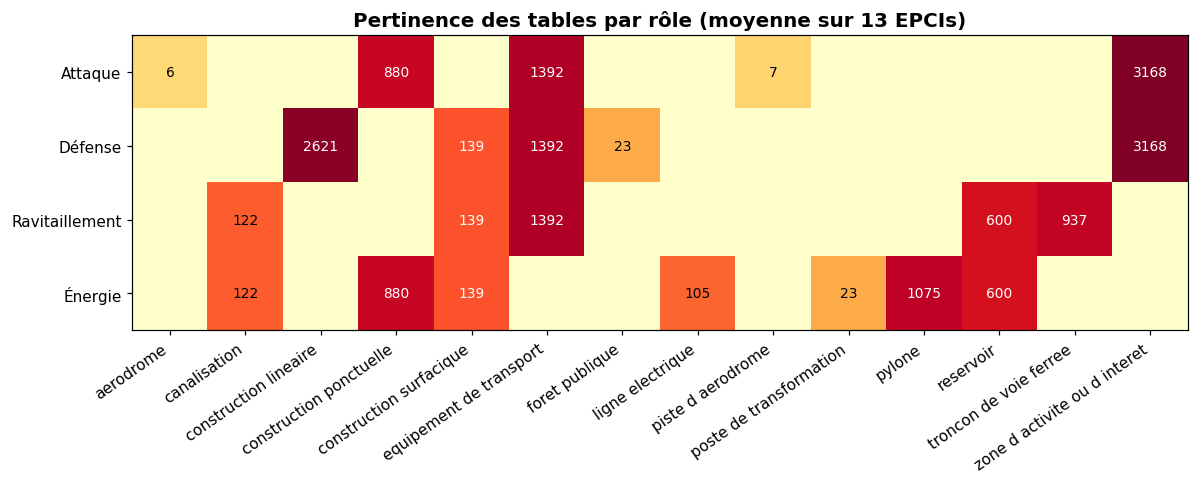
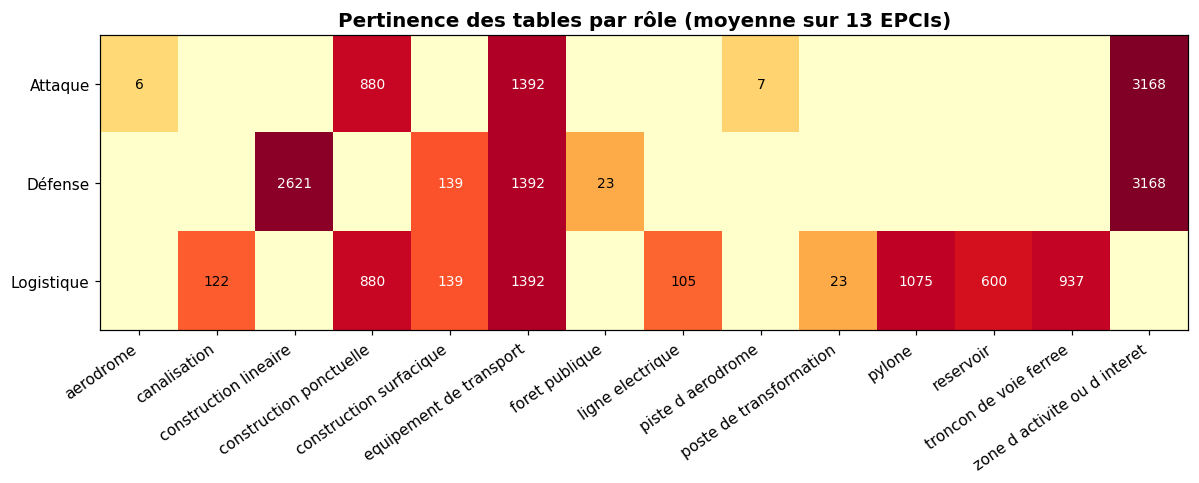
update graphs

diff --git a/pages/slides/_mermaid-card.html b/pages/slides/_mermaid-card.html
@@ -1,0 +1,10 @@
+<style>
+  .reveal .cell-output-display svg[id^="mermaid-"],
+  .reveal pre.mermaid svg,
+  .reveal .mermaid svg {
+    background: #ffffff;
+    padding: 14px;
+    border-radius: 10px;
+    max-height: 70vh;
+  }
+</style>

diff --git a/scripts/generate_theory_stats.py b/scripts/generate_theory_stats.py
@@ -16,7 +16,9 @@ matplotlib.use("Agg")
 import matplotlib.pyplot as plt
 
 DATA_DIR = Path("data/epci_extracts")
-OUT_DIR = Path("site/assets/img/theory")
+OUT_DIR = Path("pages/assets/img/theory")
+ONTO_DIR = Path("data/ontologie")
+GOLD_DIR = Path("data/gold_dumps")
 
 EPCIS = {
     "242900314": "Brest",       "200084952": "Le Havre",
@@ -224,6 +226,250 @@ def chart_data_inventory():
     plt.close(fig)
 
 
+def chart_road_density():
+    """A — Densité routière (tronçons / km²) par EPCI."""
+    import geopandas as gpd
+    epci = gpd.read_parquet("data/epci.parquet")
+    # canonical key = code_siren (string)
+    key_col = "code_siren" if "code_siren" in epci.columns else "siren"
+    epci = epci.set_index(epci[key_col].astype(str))
+    epci["area_km2"] = epci.geometry.to_crs(2154).area / 1e6
+
+    rows = []
+    for siren, name in EPCIS.items():
+        n_roads = count_rows(siren, "troncon_de_route")
+        area = float(epci.loc[siren, "area_km2"]) if siren in epci.index else np.nan
+        rows.append({"epci": name, "tronc_per_km2": n_roads / area if area else 0,
+                     "area_km2": area})
+    df = pd.DataFrame(rows).set_index("epci").sort_values("tronc_per_km2")
+
+    fig, ax = plt.subplots(figsize=(10, 6))
+    df["tronc_per_km2"].plot(kind="barh", ax=ax, color="#34495e", edgecolor="white")
+    ax.set_title("Densité du réseau routier — tronçons par km²",
+                 fontsize=13, weight="bold")
+    ax.set_xlabel("tronçons / km²")
+    ax.set_ylabel("")
+    for i, v in enumerate(df["tronc_per_km2"]):
+        ax.text(v, i, f"  {v:.0f}", va="center", fontsize=9)
+    ax.grid(axis="x", alpha=0.3)
+    fig.tight_layout()
+    fig.savefig(OUT_DIR / "chart_road_density.png", dpi=110, bbox_inches="tight")
+    plt.close(fig)
+
+
+def chart_choke_points():
+    """B — Choke-points candidats (ponts + tunnels + barrages) par EPCI."""
+    rows = []
+    for siren, name in EPCIS.items():
+        surf = read_col(siren, "construction_surfacique", "nature")
+        line = read_col(siren, "construction_lineaire", "nature")
+        ponts_s   = int((surf == "Pont").sum())
+        barrages  = int((surf == "Barrage").sum())
+        ecluses   = int((surf == "Écluse").sum())
+        tunnels   = int(line.isin(["Tunnel", "Tranchée couverte"]).sum())
+        ponts_l   = int((line == "Pont").sum())
+        rows.append({"epci": name, "Ponts (surf)": ponts_s, "Ponts (linéaires)": ponts_l,
+                     "Tunnels": tunnels, "Barrages": barrages, "Écluses": ecluses})
+    df = pd.DataFrame(rows).set_index("epci")
+    df = df.loc[df.sum(axis=1).sort_values().index]
+
+    fig, ax = plt.subplots(figsize=(10, 7))
+    df.plot(kind="barh", stacked=True, ax=ax,
+            color=["#2980b9", "#3498db", "#8e44ad", "#c0392b", "#16a085"],
+            edgecolor="white", linewidth=0.5)
+    ax.set_title("Points singuliers du réseau (candidats choke-points Phase 3)",
+                 fontsize=13, weight="bold")
+    ax.set_xlabel("Nombre d'ouvrages")
+    ax.set_ylabel("")
+    ax.legend(loc="lower right", fontsize=9)
+    ax.grid(axis="x", alpha=0.3)
+    fig.tight_layout()
+    fig.savefig(OUT_DIR / "chart_choke_points.png", dpi=110, bbox_inches="tight")
+    plt.close(fig)
+
+
+def chart_road_importance():
+    """C — Pyramide d'importance routière (% par EPCI)."""
+    buckets = [("1-2 (national)", {1, 2}), ("3", {3}), ("4", {4}), ("5-6 (local)", {5, 6})]
+    rows = []
+    for siren, name in EPCIS.items():
+        imp = read_col(siren, "troncon_de_route", "importance")
+        try:
+            imp_int = pd.to_numeric(imp.astype(str).str.replace("'", ""), errors="coerce")
+        except Exception:
+            imp_int = pd.Series(dtype=float)
+        total = imp_int.notna().sum() or 1
+        row = {"epci": name}
+        for label, vals in buckets:
+            row[label] = 100.0 * imp_int.isin(vals).sum() / total
+        rows.append(row)
+    df = pd.DataFrame(rows).set_index("epci")
+    df = df.loc[df["1-2 (national)"].sort_values(ascending=False).index]
+
+    fig, ax = plt.subplots(figsize=(10, 6))
+    df.plot(kind="barh", stacked=True, ax=ax,
+            color=["#c0392b", "#e67e22", "#f1c40f", "#bdc3c7"],
+            edgecolor="white", linewidth=0.5)
+    ax.set_title("Pyramide d'importance routière (% des tronçons)",
+                 fontsize=13, weight="bold")
+    ax.set_xlabel("% des tronçons")
+    ax.set_ylabel("")
+    ax.legend(title="Importance", bbox_to_anchor=(1.02, 1), loc="upper left", fontsize=9)
+    ax.grid(axis="x", alpha=0.3)
+    fig.tight_layout()
+    fig.savefig(OUT_DIR / "chart_road_importance.png", dpi=110, bbox_inches="tight")
+    plt.close(fig)
+
+
+def chart_electrical_resilience():
+    """D — Résilience électrique : pylônes, postes HT, lignes 400/225 kV."""
+    rows = []
+    for siren, name in EPCIS.items():
+        pyl   = count_rows(siren, "pylone")
+        ptr   = count_rows(siren, "poste_de_transformation")
+        volt  = read_col(siren, "ligne_electrique", "voltage")
+        thtxx = int(volt.isin(["400 kV", "225 kV"]).sum())
+        rows.append({"epci": name, "Pylônes": pyl, "Postes HT": ptr,
+                     "Lignes 225/400 kV": thtxx})
+    df = pd.DataFrame(rows).set_index("epci")
+    df_norm = df.div(df.max()).fillna(0)  # normalise pour comparabilité visuelle
+    df_norm = df_norm.loc[df["Pylônes"].sort_values().index]
+
+    fig, ax = plt.subplots(figsize=(10, 6))
+    df_norm.plot(kind="barh", ax=ax,
+                 color=["#16a085", "#2980b9", "#d35400"],
+                 edgecolor="white", width=0.8)
+    ax.set_title("Réseau électrique par EPCI (valeurs normalisées max=1)",
+                 fontsize=13, weight="bold")
+    ax.set_xlabel("Ratio (1 = max sur les 13 EPCIs)")
+    ax.set_ylabel("")
+    ax.legend(loc="lower right", fontsize=9)
+    ax.grid(axis="x", alpha=0.3)
+    # Annoter les valeurs brutes
+    for i, epci in enumerate(df_norm.index):
+        raw = df.loc[epci]
+        ax.annotate(f"  P:{raw['Pylônes']} | HT:{raw['Postes HT']} | THT:{raw['Lignes 225/400 kV']}",
+                    xy=(1.02, i), xycoords=("axes fraction", "data"),
+                    fontsize=7, color="#555", va="center")
+    fig.tight_layout()
+    fig.savefig(OUT_DIR / "chart_electrical_resilience.png", dpi=110, bbox_inches="tight")
+    plt.close(fig)
+
+
+def chart_ontology_treemap():
+    """E — Profondeur de l'ontologie BDTOPO (3 niveaux Database→Object→Detail)."""
+    try:
+        db   = pq.read_table(ONTO_DIR / "bdtopo_database.parquet").to_pandas()
+        obj  = pq.read_table(ONTO_DIR / "bdtopo_objects.parquet").to_pandas()
+        det  = pq.read_table(ONTO_DIR / "bdtopo_details.parquet").to_pandas()
+    except FileNotFoundError as e:
+        print(f"  [skip] ontology files missing: {e}")
+        return
+
+    # Details liés aux Objects via parent_obj_name ; Objects liés aux Database via parent_db_name
+    det_per_obj = det.groupby("parent_obj_name").size().rename("n_details")
+    obj_aug = obj.assign(n_details=obj["name"].map(det_per_obj).fillna(0))
+    agg = obj_aug.groupby("parent_db_name").agg(
+        n_objects=("name", "count"),
+        n_details=("n_details", "sum"),
+    ).sort_values("n_details", ascending=True)
+
+    fig, ax = plt.subplots(figsize=(11, 6))
+    y = np.arange(len(agg))
+    ax.barh(y, agg["n_details"], color="#34495e", label="Details (feuilles)")
+    ax.barh(y, agg["n_objects"], color="#e67e22", alpha=0.85, label="Objects")
+    ax.set_yticks(y)
+    ax.set_yticklabels(agg.index, fontsize=9)
+    ax.set_xlabel("Nombre de classes")
+    ax.set_title(f"Ontologie BDTOPO — Objects ({len(obj)}) & Details ({len(det)}) par Database",
+                 fontsize=13, weight="bold")
+    ax.legend(loc="lower right")
+    ax.grid(axis="x", alpha=0.3)
+    fig.tight_layout()
+    fig.savefig(OUT_DIR / "chart_ontology.png", dpi=110, bbox_inches="tight")
+    plt.close(fig)
+
+
+def _parse_ways_copy(sql_path: Path, cost_idx: int = 47, source_idx: int = 5, target_idx: int = 6):
+    """Parse les colonnes utiles depuis le COPY block d'un gold dump pgRouting."""
+    costs, sources, targets = [], [], []
+    in_copy = False
+    with open(sql_path, "r", encoding="utf-8") as f:
+        for line in f:
+            if not in_copy:
+                if line.startswith("COPY ") and ".ways " in line and "FROM stdin" in line:
+                    in_copy = True
+                continue
+            if line.startswith("\\."):
+                break
+            parts = line.rstrip("\n").split("\t")
+            if len(parts) <= max(cost_idx, source_idx, target_idx):
+                continue
+            try:
+                c = float(parts[cost_idx])
+                if c > 0 and c < 1e6:
+                    costs.append(c)
+                sources.append(int(parts[source_idx]))
+                targets.append(int(parts[target_idx]))
+            except (ValueError, IndexError):
+                continue
+    return np.array(costs), np.array(sources), np.array(targets)
+
+
+def chart_cost_histogram():
+    """F — Histogramme cost (s_car) sur 1 EPCI moyen (Brest)."""
+    dump = GOLD_DIR / "242900314" / "ways.sql"
+    if not dump.exists():
+        print(f"  [skip] {dump} missing")
+        return
+    costs, _, _ = _parse_ways_copy(dump)
+    if costs.size == 0:
+        print("  [skip] no costs parsed")
+        return
+
+    fig, ax = plt.subplots(figsize=(10, 5))
+    ax.hist(costs, bins=80, color="#2980b9", edgecolor="white")
+    ax.set_xlabel("cost_s_car (secondes par traversée)")
+    ax.set_ylabel("Nombre d'arêtes")
+    ax.set_yscale("log")
+    ax.set_title(f"Distribution des coûts pgRouting (Brest — {costs.size:,} arêtes)".replace(",", " "),
+                 fontsize=13, weight="bold")
+    ax.axvline(np.median(costs), color="#c0392b", linestyle="--",
+               label=f"médiane = {np.median(costs):.1f}s")
+    ax.legend()
+    ax.grid(alpha=0.3)
+    fig.tight_layout()
+    fig.savefig(OUT_DIR / "chart_cost_histogram.png", dpi=110, bbox_inches="tight")
+    plt.close(fig)
+
+
+def chart_node_degree():
+    """G — Distribution du degré des nœuds (log-log) sur 1 EPCI."""
+    dump = GOLD_DIR / "242900314" / "ways.sql"
+    if not dump.exists():
+        print(f"  [skip] {dump} missing")
+        return
+    _, src, tgt = _parse_ways_copy(dump)
+    if src.size == 0:
+        return
+    endpoints = np.concatenate([src, tgt])
+    _, counts = np.unique(endpoints, return_counts=True)
+    deg_values, deg_freq = np.unique(counts, return_counts=True)
+
+    fig, ax = plt.subplots(figsize=(9, 5.5))
+    ax.scatter(deg_values, deg_freq, color="#16a085", s=30)
+    ax.set_xscale("log")
+    ax.set_yscale("log")
+    ax.set_xlabel("Degré du nœud (nombre d'arêtes incidentes)")
+    ax.set_ylabel("Nombre de nœuds (log)")
+    ax.set_title(f"Distribution du degré — Brest ({counts.size:,} nœuds, deg. moyen = {counts.mean():.2f})".replace(",", " "),
+                 fontsize=13, weight="bold")
+    ax.grid(which="both", alpha=0.3)
+    fig.tight_layout()
+    fig.savefig(OUT_DIR / "chart_node_degree.png", dpi=110, bbox_inches="tight")
+    plt.close(fig)
+
+
 def emit_markdown_tables():
     """Génère les tableaux markdown POI + réseau routier (à coller dans contenu_donnees.md)."""
     out = Path("scripts/_generated_tables.md")
@@ -266,10 +512,17 @@ def emit_markdown_tables():
 if __name__ == "__main__":
     OUT_DIR.mkdir(parents=True, exist_ok=True)
     print("Generating charts...")
-    chart_poi_counts();        print("  [1/5] chart_poi_counts.png")
-    chart_road_network();      print("  [2/5] chart_road_network.png")
-    chart_role_heatmap();      print("  [3/5] chart_role_heatmap.png")
-    chart_road_composition();  print("  [4/5] chart_road_composition.png")
-    chart_data_inventory();    print("  [5/5] chart_data_inventory.png")
+    chart_poi_counts();             print("  [01/12] chart_poi_counts.png")
+    chart_road_network();           print("  [02/12] chart_road_network.png")
+    chart_role_heatmap();           print("  [03/12] chart_role_heatmap.png")
+    chart_road_composition();       print("  [04/12] chart_road_composition.png")
+    chart_data_inventory();         print("  [05/12] chart_data_inventory.png")
+    chart_road_density();           print("  [06/12] chart_road_density.png")
+    chart_choke_points();           print("  [07/12] chart_choke_points.png")
+    chart_road_importance();        print("  [08/12] chart_road_importance.png")
+    chart_electrical_resilience();  print("  [09/12] chart_electrical_resilience.png")
+    chart_ontology_treemap();       print("  [10/12] chart_ontology.png")
+    chart_cost_histogram();         print("  [11/12] chart_cost_histogram.png")
+    chart_node_degree();            print("  [12/12] chart_node_degree.png")
     emit_markdown_tables();    print("  Markdown tables written to scripts/_generated_tables.md")
     print(f"Done. Output: {OUT_DIR}/")